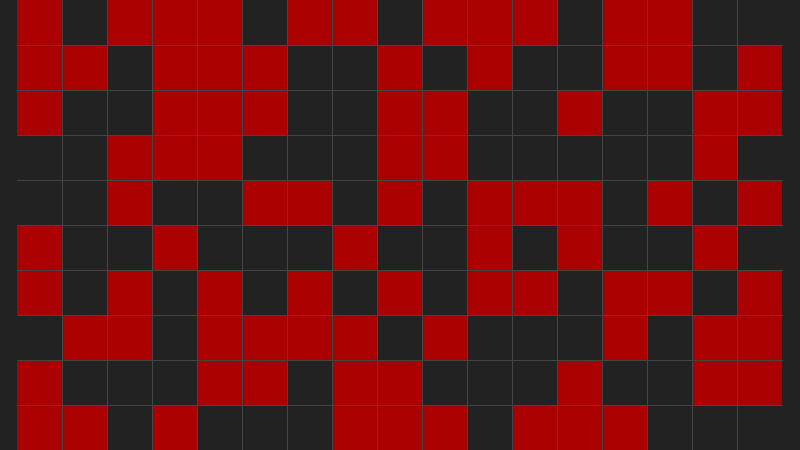
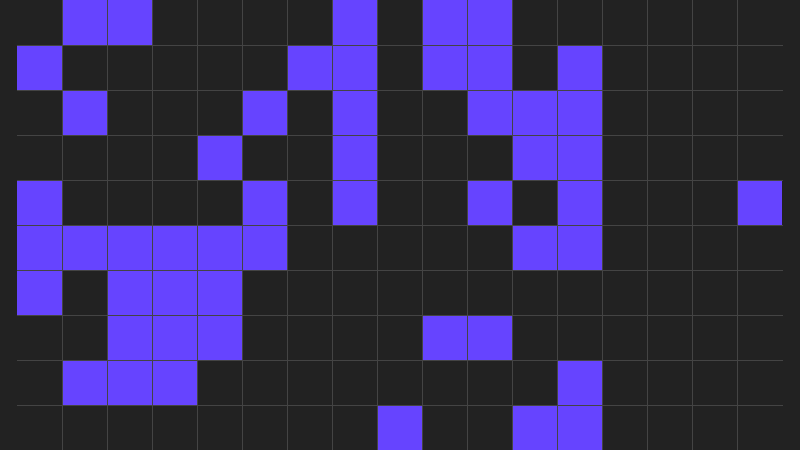
it's alive! simulation running ok

diff --git a/src/world.rs b/src/world.rs
@@ -2,7 +2,7 @@ mod life_cell;
 mod grid;
 mod separator;
 
-use std::cmp;
+use std::{cmp, thread, time::Duration};
 
 use image::{Rgba, RgbaImage};
 use imageproc::{rect::Rect, drawing::draw_filled_rect_mut};
@@ -88,6 +88,56 @@ impl World {
         }
 
         cell_row
+    }
+
+    pub fn run(&mut self, n_steps: u16) {
+        self.draw();
+        for step in 0..n_steps {
+            thread::sleep(Duration::from_millis(1000));
+            self.update_cells();
+            self.draw();
+        }
+    }
+
+    fn update_cells(&mut self) {
+        let cells_alive_neighbors_count = self.count_cells_alive_neighbors();
+
+        for i in 0..self.cells.len() {
+            for j in 0..self.cells[i].len() {
+                self.cells[i][j].update_is_alive(cells_alive_neighbors_count[i][j]);
+            }
+        }
+    }
+
+    fn count_cells_alive_neighbors(&self) -> Vec<Vec<u8>> {
+        let mut cells_alive_neighbors = Vec::new();
+        for i in 0..self.cells.len() {
+            let mut cells_alive_neighbors_row = Vec::new();
+            for j in 0..self.cells[i].len() {
+                cells_alive_neighbors_row.push(self.count_cell_alive_neighbors(i, j));
+            }
+            cells_alive_neighbors.push(cells_alive_neighbors_row);
+        }
+
+        cells_alive_neighbors
+    }
+
+    fn count_cell_alive_neighbors(&self, i: usize, j: usize) -> u8 {
+        // Determines next and previous cell indices assuming a full loop world
+        let i_prev = if i == 0 { self.cells.len() - 1 } else { i - 1 };
+        let j_prev = if j == 0 { self.cells[i].len() - 1 } else { j - 1 };
+        let i_next = if i == self.cells.len() - 1 { 0 } else { i + 1 };
+        let j_next = if j == self.cells[i].len() - 1 { 0 } else { j + 1 };
+        // Counts alive neighbors
+        let mut count = 0;
+        for i_cur in [i_prev, i, i_next] {
+            for j_cur in [j_prev, j, j_next] {
+                if i_cur == i && j_cur == j { continue }
+                if self.cells[i_cur][j_cur].is_alive { count += 1 }
+            }
+        }
+
+        count
     }
 
     pub fn draw(&self) {

diff --git a/src/world/life_cell.rs b/src/world/life_cell.rs
@@ -21,6 +21,11 @@ impl LifeCell {
         }
     }
 
+    pub fn update_is_alive(&mut self, n_alive_neighbors: u8) {
+        // This line summarizes the original rules found at https://conwaylife.com/
+        self.is_alive = n_alive_neighbors == 3 || (n_alive_neighbors == 2 && self.is_alive);
+    }
+
     pub fn draw(&self, canvas: &mut RgbaImage) {
         if self.is_alive {
             let rect = Rect::at(self.x as i32, self.y as i32).of_size(self.size as u32, self.size as u32);

diff --git a/src/main.rs b/src/main.rs
@@ -5,8 +5,8 @@ mod config;
 
 fn main() -> Result<(), Box<dyn Error>> {
     let config = config::load_config()?;
-    let world = world::World::from_config(config);
-    world.draw();
+    let mut world = world::World::from_config(config);
+    world.run(1);
 
     Ok(())
 }
